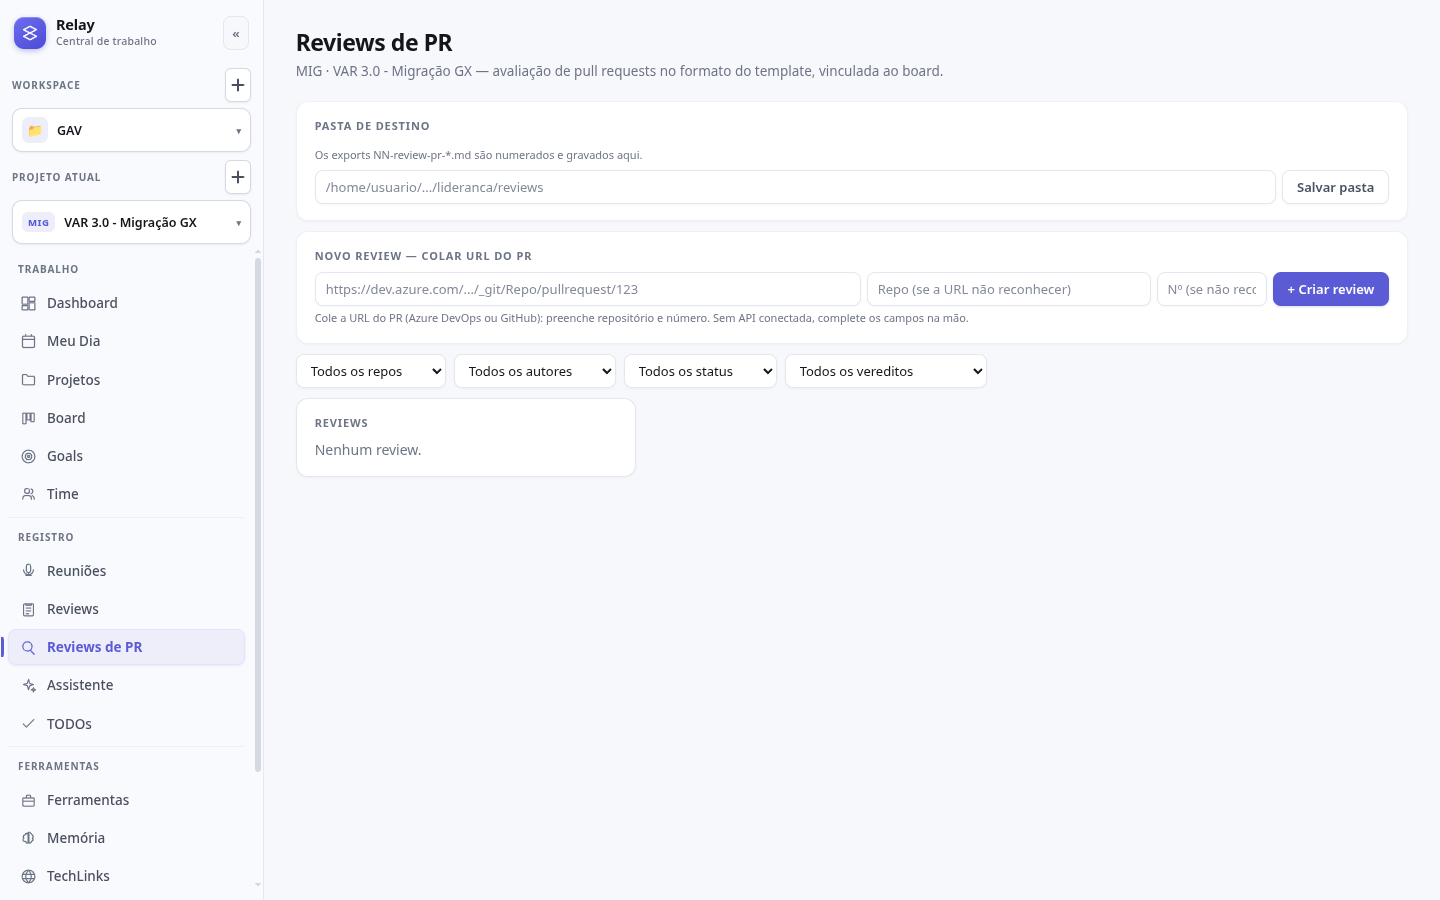
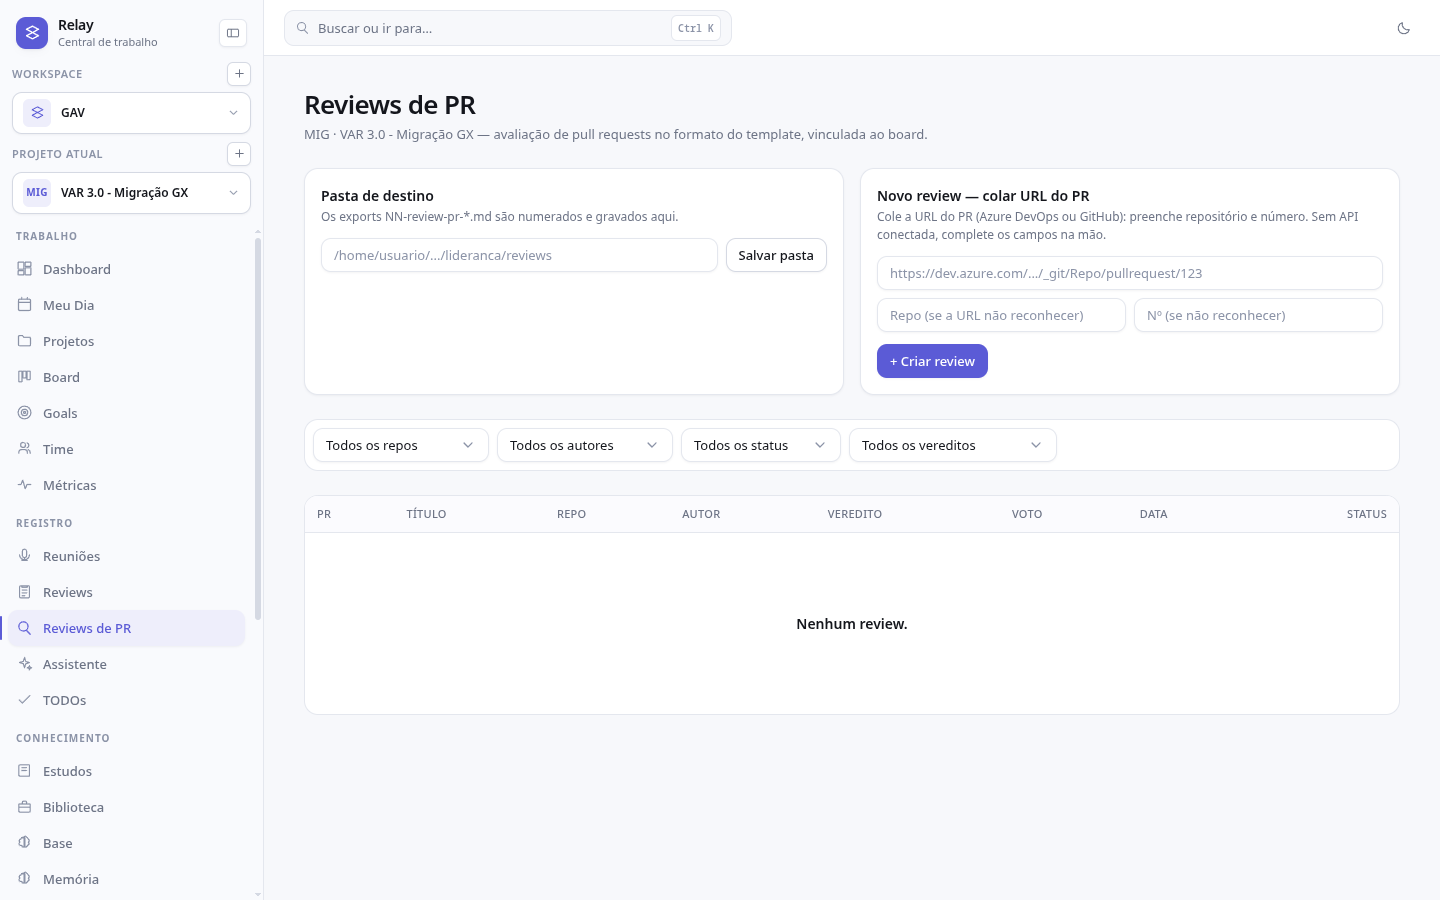
docs(ui): registrar execução do plano, guia de migração e prints oficiais
- plano de reconstrução marcado como executado, com evidências e desvios
- guia de migração das páginas para o design system
- prints oficiais (dashboard, board, metricas, reunioes, reviews-pr) recapturados
- README/README.en apontando para os novos documentos

diff --git a/docs/ui-rebuild-plan.md b/docs/ui-rebuild-plan.md
@@ -1,0 +1,211 @@
+# Plano de ação — reconstrução da UI (Relay web/Electron)
+
+Data: 25/11/2026 · Status: **executado em 25/11/2026** — resultado e desvios na seção 7.
+
+## 1. Diagnóstico (medido, não estimado)
+
+| Sintoma | Número |
+|---|---|
+| Páginas | 26 arquivos · 8.022 linhas |
+| Estilos inline (`style={{…}}`) | **928** (Board sozinho: 291) |
+| Raios de borda distintos | **12** (2, 3, 4, 5, 6, 7, 8, 9, 10, 12, 14, 20 px) |
+| Tamanhos de fonte distintos | **10** (9, 10, 11, 12, 13, 15, 16, 22, 24, 26 px) |
+| Cores hex escritas à mão | **44** |
+| Paddings ad hoc | dezenas (`2px 8px`, `1px 6px`, `8px 10px`, `10px 12px`…) |
+
+**Causa raiz:** cada página decide sozinha dimensão, borda, cor e espaçamento. Não
+existe camada de componentes — o "design system v2" anterior só trocou variáveis
+globais; as 26 páginas continuaram com valores soltos. Enquanto houver `style={{}}`
+com px/cor, a UI volta a parecer antiga a cada página nova.
+
+**Conclusão:** não é refatoração incremental. É reconstruir em 3 camadas —
+fundação (tokens) → primitivos (componentes) → páginas migradas uma a uma,
+proibindo valores soltos por lint.
+
+---
+
+## 2. Decisões de arquitetura (precisam de OK antes de começar)
+
+**D1 — Stack de estilo: Tailwind CSS v4 + Radix Primitives.**
+Dimensão, borda e cor passam a ser *classes* que só existem na escala do token.
+Radix resolve foco/teclado/portal (select, dialog, tooltip, tabs) sem reinventar.
+*Alternativa:* CSS Modules + primitivos próprios (zero dependência nova, porém
+mais código e mais fácil divergir). **Recomendo Tailwind + Radix.**
+
+**D2 — Componentes próprios por cima do Radix** (não usar kit pronto tipo shadcn
+copiado): `Button`, `Input`, `Select`, `Dialog`, `Tabs`, `Table`, `Card`,
+`Badge`, `Tooltip`, `Toast`, `EmptyState`, `PageHeader`, `StatCard`, `Progress`,
+`Field`, `Toolbar`, `DataTable`, `Avatar`, `Skeleton`, `SegmentedControl`.
+
+**D3 — Escalas fechadas** (nada fora delas):
+- espaço: 0,1,2,3,4,6,8,12,16,20,24,32,40,48,64 (px)
+- raio: `sm 6` · `md 10` · `lg 14` · `xl 20` · `full`
+- fonte: `xs 11` · `sm 12` · `base 13` · `md 14` · `lg 16` · `xl 20` · `2xl 26`
+- altura de controle: `sm 28` · `md 34` · `lg 40`
+- borda: 1px `border` · 1px `border-strong` · 2px foco
+- sombra: `xs`, `sm`, `md`, `lg` (4 níveis, nada fora)
+- cores: 1 marca + 4 semânticas × (fundo/texto/borda/hover) — 0 hex em página
+
+**D4 — Layout:** grid de 8px, container com `max-width: 1440px`, gutters
+`24/32/40` por breakpoint, sidebar 264/244/228 (rail 64), topbar fixa 56px.
+
+**D5 — Regra dura:** página não escreve `px`, `#hex`, `borderRadius`, `fontSize`.
+Só usa componente + classe utilitária da escala. Exceções: largura/altura
+dinâmicas (progresso, gráfico) via `style` só com `width/height/transform`.
+
+---
+
+## 3. Fases e tarefas
+
+### F0 — Fundação (2 dias)
+- [ ] **F0.1** Instalar/configurar Tailwind v4 + Radix + `class-variance-authority` (ou variantes próprias) + `clsx`.
+- [ ] **F0.2** `tailwind.config`: cores semânticas (bg, surface, elevated, border, border-strong, text, text-muted, accent, accent-hover, accent-soft, success, warning, danger) nos temas claro/escuro.
+- [ ] **F0.3** Escalas de espaço/raio/fonte/sombra/altura como *tokens únicos* (D3).
+- [ ] **F0.4** `globals.css`: reset, tipografia base, foco visível padrão (`ring-2 ring-accent/40`), scrollbar, `prefers-reduced-motion`.
+- [ ] **F0.5** Remover `styles.css` legado (depois que as páginas migrarem — marcar como deprecado agora).
+- **Aceite:** página de exemplo com 5 controles, 2 cards e tabela renderizando 100% por classes; 0 hex/px no arquivo.
+
+### F1 — Primitivos (4 dias)
+Para cada componente: variantes × tamanhos × estados (hover/active/focus/disabled/loading) + story local (página `/design`).
+- [ ] **F1.1** `Button` (primary, secondary, ghost, danger, link; sm/md/lg; loading, icon-only)
+- [ ] **F1.2** `Input`, `Textarea`, `Field` (label, hint, error, contador), `Checkbox`, `Switch`, `Radio`
+- [ ] **F1.3** `Select` (Radix: teclado, portal, busca) + `Combobox` para listas grandes
+- [ ] **F1.4** `Card`, `Panel`, `SectionTitle`, `Divider`, `EmptyState`, `Skeleton`
+- [ ] **F1.5** `Badge`/`Chip` (neutral, accent, success, warning, danger, outline)
+- [ ] **F1.6** `Tabs` e `SegmentedControl`
+- [ ] **F1.7** `Dialog`/`Sheet`/`ConfirmDialog` (substitui SweetAlert nas ações destrutivas)
+- [ ] **F1.8** `Toast` (sucesso/erro) — substitui `setMsg`/`setErro` espalhados
+- [ ] **F1.9** `Tooltip`, `Avatar`, `Progress`
+- [ ] **F1.10** `DataTable` (header sticky, densidade sm/md, ordenação, seleção, coluna responsiva que colapsa em card no mobile)
+- [ ] **F1.11** `StatCard` (KPI: valor, rótulo, delta/chip, ícone)
+- [ ] **F1.12** `PageHeader` (título, subtítulo, ações, breadcrumb) e `Toolbar` (busca/filtros/ação primária)
+- **Aceite:** `/design` mostra todos os componentes em todos os estados; nada abaixo de 32px de alvo de toque; contraste AA verificado.
+
+### F2 — Shell (2 dias)
+- [ ] **F2.1** `AppShell`: sidebar + topbar + conteúdo com container/gutters por breakpoint.
+- [ ] **F2.2** Sidebar: grupos, rail colapsada (ícones 40px), tooltip na rail, persistência, drawer no mobile com focus-trap.
+- [ ] **F2.3** Topbar: busca global (Cmd/Ctrl+K abre `CommandPalette`), workspace/projeto, ações rápidas, avatar.
+- [ ] **F2.4** `CommandPalette` (busca em páginas, projetos, cards, reuniões).
+- [ ] **F2.5** Estados globais: loading (skeleton), erro (banner do design), vazio (EmptyState com ação).
+- **Aceite:** navegação completa por teclado; shell idêntico em 1440/1024/768/420.
+
+### F3 — Migração por ondas (10–12 dias)
+
+Regra por página: **zero `style={{}}` com px/cor**, só primitivos. Cada onda
+entrega build verde + screenshots 4 larguras + checklist.
+
+**Onda 1 — Núcleo (3 d):** Dashboard, Board (kanban + filtros + card + drawer da tarefa), Métricas.
+- [ ] **F3.1** Dashboard (StatCards, atividade, projetos)
+- [ ] **F3.2** Board: colunas (header sticky, WIP, contagem), card (título/labels/avatar/data/selects compactos), toolbar de filtros, drawer de detalhe
+- [ ] **F3.3** Métricas: KPIs, gráficos com legenda, tabelas por módulo/pessoa
+
+**Onda 2 — Registro (3 d):** Reuniões, Reviews, Reviews de PR.
+- [ ] **F3.4** Reuniões: lista (DataTable), detalhe com tabs, transcrição/analisar, player de áudio
+- [ ] **F3.5** Reviews (semanal) e Reviews de PR: formulários em `Field`, tabelas de fatos/achados com linha editável, preview, histórico
+
+**Onda 3 — Trabalho (3 d):** Meu Dia, TODOs, Time, Goals, Sprint Planning, Projetos.
+- [ ] **F3.6..F3.11** cada página migrada
+
+**Onda 4 — Suporte (2 d):** Estudos, Base (KB), Memória, Biblioteca, Ferramentas, TechLinks, Skills, Guia, Inglês, Tradução, API Tester, Configurações, Labels.
+- [ ] **F3.12..F3.24** cada página migrada
+
+**Onda 5 — Limpeza (1 d):** remover CSS legado, componentes órfãos, `styles.css`, classes mortas.
+
+### F4 — Qualidade e guardrails (2 dias, contínuo)
+- [ ] **F4.1** ESLint: `react/forbid-dom-props` para `style` (allowlist width/height/transform) + regra contra hex em JSX.
+- [ ] **F4.2** Script `npm run ui:audit`: falha se `style={{` > 0 nas páginas, hex solto, raio/fonte fora da escala.
+- [ ] **F4.3** Visual regression: snapshots 1440/1024/768/420 por página (Playwright) no CI local.
+- [ ] **F4.4** A11y: axe nas 6 páginas principais; foco visível; contraste AA; labels em todos os campos.
+- [ ] **F4.5** Checklist de PR: usa primitivo? zero px/cor? estados vazio/erro/loading? teclado ok?
+
+### F5 — Rollout
+- [ ] **F5.1** Migrar em branch `ui/rebuild` (ondas em commits separados), PR por onda.
+- [ ] **F5.2** Build + suíte + screenshots comparativos (antes/depois) por onda.
+- [ ] **F5.3** Publicar prints oficiais (`docs/prints/`) ao fim de cada onda.
+- [ ] **F5.4** Remover dependência do SweetAlert nas páginas migradas (Dialog/Confirm próprios).
+
+---
+
+## 4. Ordem recomendada e esforço
+
+| Fase | Entrega | Dias |
+|---|---|---|
+| F0 | Tokens + Tailwind/Radix | 2 |
+| F1 | 12 famílias de primitivos + `/design` | 4 |
+| F2 | Shell + busca global | 2 |
+| F3 | 26 páginas em 5 ondas | 10–12 |
+| F4 | Lint + auditoria + visual regression | 2 |
+| **Total** | | **20–22 dias-dev** |
+
+**Caminho crítico:** F0 → F1 → F2 → Onda 1. Nada de página antes dos primitivos.
+
+---
+
+## 5. Critérios de aceite (globais)
+
+1. `grep -c "style={{"` nas páginas = **0** (exceto width/height/transform dinâmicos, com comentário).
+2. Nenhum `#hex`, `px`, `borderRadius` ou `fontSize` em `pages/**`.
+3. Todas as páginas nos 4 breakpoints sem overflow horizontal.
+4. Foco visível e navegação por teclado em todo controle; contraste AA.
+5. `/design` é a fonte da verdade visual e está sempre atualizada.
+6. CI local falha se 1–3 forem violados.
+
+## 6. Riscos
+
+| Risco | Mitigação |
+|---|---|
+| Migração longa e "meio termo" (metade nova, metade velha) | Ondas fechadas; página só entra quando migra 100%; feature freeze de UI durante a obra |
+| Tailwind virar "sopa de classes" | Só classes do token; variantes encapsuladas no primitivo; página não estiliza |
+| Regressão de comportamento | Suíte (590 testes) + screenshots por onda + checklist |
+| Tempo maior que o previsto | Onda 1 entrega valor visível em 3 dias; resto pode pausar sem quebrar |
+
+---
+
+## 7. Execução (25/11/2026)
+
+### Entregue
+
+- **Fundação:** Tailwind CSS v4 + Radix + `clsx`/CVA; `src/styles/theme.css` com
+  escala fechada de cor, fonte, raio, sombra e altura de controle; tema claro/escuro.
+- **Primitivos:** 26 componentes em `src/ui` (Button, Card, Badge, EmptyState,
+  Skeleton, Progress, Avatar, Tooltip, Spinner, Field, Input, Textarea, Checkbox,
+  Switch, RadioGroup, Select, SearchInput, PageHeader, Toolbar, StatCard,
+  DataTable, Tabs, SegmentedControl, Dialog, ConfirmDialog, Toast).
+- **Catálogo vivo:** rota `/design` com todos os componentes, variantes e estados.
+- **Shell:** `AppShell` com sidebar (rail persistida, grupos, gaveta mobile),
+  topbar de 56px, `CommandPalette` (⌘/Ctrl+K) e container responsivo.
+- **Páginas:** 27 rotas migradas (todas as 26 originais + `/design`);
+  `TaskDetail` e `ProjectDaily` também migrados.
+- **Limpeza:** `src/styles.css` removido; nenhuma página usa classe legada,
+  `style` com px/cor, hex ou `NNpx`.
+- **Guardrail:** `npm run ui:audit` (falha se página migrada voltar a usar valor
+  solto); `scripts/ui-shot.py` para capturas/checagem de overflow em CDP.
+- **Prints oficiais:** `docs/prints/{dashboard,board,metricas,reunioes,reviews-pr}.png`
+  recapturados em 1440×900.
+
+### Evidências
+
+- `npm run build`: verde.
+- `npm run ui:audit`: `ui:audit ok — nenhuma página usa valores soltos`.
+- `pytest -q`: **590 passed**, 1 falha pré-existente
+  (`test_daily_doc.py::test_round_trip_arquivo_real_do_vault`).
+- `scripts/ui-shot.py`: 24 rotas × 420/768/1024/1440 **sem overflow horizontal**
+  (`scrollWidth == clientWidth`); gaveta mobile e foco preso do diálogo conferidos.
+- Teclado validado em navegador real no `/design`: `Esc` fecha o `Dialog`,
+  setas/`Enter` navegam e selecionam no `Select` (Radix). O envio de teclas via
+  CDP não chega na janela Electron oculta — por isso a validação foi feita no
+  navegador, não no print.
+- Tema escuro conferido no app empacotado; em janela oculta as transições CSS
+  ficam paradas no primeiro frame (artefato do headless, não do app) — validar com
+  `document.getAnimations().forEach(a => a.finish())` no CDP.
+
+### Desvios conscientes do plano
+
+| Item | O que foi feito | Por quê |
+|---|---|---|
+| F4.1 ESLint | `ui:audit` próprio em vez de `eslint-plugin-react` | evita mais uma dependência e já cobre o critério (style/hex/px) |
+| F4.3 Playwright | `scripts/ui-shot.py` via CDP | ambiente sem Playwright/navegador baixado; script checa overflow e gera prints |
+| F4.4 axe | verificação manual de foco/labels/contraste | `axe-core` não está instalado no ambiente |
+| F5.1 branch `ui/rebuild` | commits em `main` | preferência do projeto: sem PR e sem branch intermediária |
+| F5.4 SweetAlert | removido das páginas; permanece em `WorkspaceSelector`, `ProjectSelector` e `ProjectDaily` | são prompts de shell/importação; migração exige novo fluxo de formulário e fica para demanda própria |
+| i18n | rótulos novos caem no fallback PT quando o idioma é EN | catálogo `i18n_catalog.js` não foi alterado nesta obra |

diff --git a/docs/ui-migration-guide.md b/docs/ui-migration-guide.md
@@ -1,0 +1,143 @@
+# Guia de migração das páginas para o design system
+
+Data: 25/11/2026 · Complementa `docs/ui-rebuild-plan.md` (fases F1/F3).
+
+Este guia é o contrato para migrar uma página do CSS legado para os primitivos
+em `local-client/webui/src/ui`. O objetivo é que a página **não escreva mais
+dimensão, cor nem borda** — só componha primitivos e classes do tema.
+
+## Regra de ouro
+
+```jsx
+// errado
+<div style={{ padding: 12, borderRadius: 8, background: '#fff' }}>
+  <button style={{ height: 32, fontSize: 12 }}>Salvar</button>
+</div>
+
+// certo
+<Card>
+  <Button size="sm">Salvar</Button>
+</Card>
+```
+
+Proibido em `pages/**`:
+
+- `style={{ … }}` com `px`, `#hex`, `borderRadius`, `fontSize`, `color`, `background`
+  (só `width`/`height`/`transform`/`left`/`top` dinâmicos, ex.: barra de progresso).
+- `#rrggbb` / `#rgb` solto.
+- `NNpx` em qualquer propriedade.
+- Classes do CSS legado (`card`, `row`, `muted`, `btn`, `ghost`, `danger`, `chip`,
+  `preview`, `sectionLabel`, `hint`, `mono`, `pill`, `kpi`, `stat`…). Migrou, sumiu.
+
+Exceções: gráficos SVG podem usar `width`/`height`/`viewBox` e `stroke`/`fill`
+com `currentColor` ou `var(--color-…)`; nunca hex.
+
+## Casca
+
+A página é renderizada dentro de `AppShell` (sidebar + topbar + `.app-container`).
+Portanto:
+
+- **não** adicione padding/max-width/margem externa na raiz;
+- comece por `<PageHeader … />` (título/descrição/ações);
+- use `space-y-6` (ou `gap-6`) entre blocos;
+- grids responsivos: `grid gap-3 sm:grid-cols-2 xl:grid-cols-4`, tabelas com
+  `DataTable` (já tem scroll horizontal e esconde colunas no mobile).
+
+## Primitivos (import único)
+
+```jsx
+import {
+  Avatar, Badge, Button, Card, CardHeader, Chip, ConfirmDialog, DataTable,
+  Dialog, Divider, EmptyState, Field, Input, PageHeader, Progress, RadioGroup,
+  SearchInput, SectionTitle, SegmentedControl, Select, Skeleton, Spinner,
+  StatCard, Switch, Tabs, Textarea, Toolbar, Tooltip, useToast,
+} from '../ui'
+import Icon from '../components/Icon.jsx'
+```
+
+### Ações e conteúdo
+
+- `Button` — `variant`: `primary|secondary|ghost|danger|link`; `size`: `sm|md|lg`;
+  `loading`, `disabled`, `iconOnly`, `as`. Props repassadas (`onClick`, `title`, `type`).
+- `Card` — `padding: sm|md|lg|none`, `variant: default|flat`; `CardHeader`
+  (`title`, `description`, `action`); `SectionTitle`; `Divider`.
+- `Badge` — `variant: neutral|accent|success|warning|danger|outline`, `size: sm|md`;
+  `Chip` (`dot` opcional).
+- `EmptyState` — `icon`, `title`, `description`, `action`.
+- `Skeleton` — `w`, `h`, `rounded` (classes); `Spinner` — `size: xs|sm|md|lg`.
+- `Progress` — `value`, `max`, `tone: accent|success|warning|danger`, `size`.
+- `Avatar` — `name`, `src`, `size: sm|md|lg`.
+- `Tooltip` — `content`, `side`, `align`; envolve o gatilho.
+
+### Layout e dados
+
+- `PageHeader` — `title`, `description`, `actions`, `breadcrumb`.
+- `Toolbar` — `children` (esquerda), `actions` (direita); quebra no mobile.
+- `StatCard` — `label`, `value`, `icon` (nó React, ex.: `<Icon …/>`), `hint`,
+  `tone: accent|success|warning|danger`, `delta: { value, tone }`.
+- `DataTable` — `columns: [{ key, header, render(row), align, sortable,
+  hideOnMobile, width }]`, `rows`, `rowKey(row)`, `onRowClick`, `empty`,
+  `loading`, `dense`, `sort`, `onSortChange`. Já tem borda, header sticky e
+  scroll; **não** envolva em `Card` com padding.
+- `Tabs` — `tabs: [{ value, label, icon?, badge? }]`, `value`, `onValueChange`,
+  `children` (ou `tab.content`).
+- `SegmentedControl` — `options: [{ value, label }]`, `value`, `onChange`.
+- `Dialog` — `open`, `onOpenChange`, `title`, `description`, `footer`, `size`.
+- `ConfirmDialog` — `open`, `onOpenChange`, `title`, `description`,
+  `confirmLabel`, `cancelLabel`, `tone: default|danger`, `onConfirm`, `loading`.
+- `useToast()` — `toast({ title, description, tone })`. Requer `ToastProvider`
+  (já montado em `App.jsx`).
+
+### Formulário
+
+- `Field` — `label`, `hint`, `error`, `required`, `counter`, `htmlFor`.
+  Envolve o controle e liga label/erro por aria.
+- `Input` — `invalid`, `leadingIcon`, `trailing`, `size`; `Textarea`.
+- `Select` — `value`, `onValueChange`, `options: [{ value, label, disabled? }]`,
+  `placeholder`, `size`, `invalid`, `disabled`, `ariaLabel`. Radix: teclado/portal.
+- `SearchInput` — `value`, `onChange`, `placeholder` (recebe valor direto, não evento).
+- `Checkbox` — `label`, `description`, `checked`, `onCheckedChange`.
+- `Switch` — `label`, `checked`, `onCheckedChange`.
+- `RadioGroup` — `options: [{ value, label, description? }]`, `value`, `onValueChange`.
+
+## Escala permitida de classes
+
+- espaço: `0 1 2 3 4 6 8 12 16 20 24 32 40 48 64` (Tailwind: p-1..p-16);
+- raio: `rounded-sm|md|lg|xl|full`;
+- fonte: `text-xs|sm|base|md|lg|xl|2xl|3xl`;
+- altura de controle: `h-control-sm|control|control-lg`;
+- sombra: `shadow-xs|sm|md|lg`;
+- cor: `bg-bg|surface|surface-2|elevated|accent|accent-soft|accent-soft-2|success-soft|warning-soft|danger-soft`,
+  `text-fg|fg-muted|fg-subtle|accent|accent-contrast|success|warning|danger`,
+  `border-border|border-strong|accent|success|warning|danger`.
+- Nada de `text-[13px]`, `p-[10px]`, `bg-[#…]`, `rounded-[6px]`.
+
+## O que preservar (obrigatório)
+
+1. **Comportamento**: todos os `useState`, `useEffect`, chamadas de API, handlers,
+   polling, drag-and-drop, atalhos e navegação continuam idênticos.
+2. **Textos e i18n**: mantenha `t('…')` e as strings existentes; não “melhore” copy.
+3. **Contratos da API**: não altere endpoints, parâmetros nem formato de payload.
+4. **Estados**: loading (Skeleton/Spinner), vazio (EmptyState), erro (texto
+   `text-danger` ou toast) e sucesso continuam perceptíveis.
+5. **Acessibilidade**: todo botão só de ícone tem `aria-label`; campos têm label.
+
+## Validação antes de reportar
+
+```bash
+cd local-client/webui
+npx esbuild src/pages/<Pagina>.jsx --loader:.jsx=jsx --outfile=/dev/null
+UI_MIGRATED=<Pagina1>,<Pagina2> node scripts/ui-audit.mjs
+```
+
+O `ui:audit` deve sair **0 bloqueante(s)** para as páginas atribuídas. Avisos em
+outras páginas não são seus. **Não** rode `npm run build`, `npm install` nem git —
+o orquestrador fecha a onda.
+
+## Proibições
+
+- Não edite `src/ui/**`, `src/shell/**`, `src/App.jsx`, `src/styles.css`,
+  `src/styles/theme.css`, `src/api.js`, `src/i18n*`, `package.json`.
+- Não crie componentes novos em `src/ui/`; se faltar algo, resolva com o que
+  existe e reporte a lacuna.
+- Não remova funcionalidade para “ficar mais bonito”.

diff --git a/docs/prints/README.md b/docs/prints/README.md
@@ -57,7 +57,20 @@ cd local-client && ./run-web.sh   # http://127.0.0.1:9777/
 
 Capturados do app Electron empacotado (1440×900, tema claro, projeto MIG) e já
 usados no README: `dashboard.png`, `board.png`, `metricas.png`,
-`reviews-pr.png`, `reunioes.png`. Recapturar quando a UI mudar de forma
-relevante. Como recapturar sem monitor ligado: subir o app com
-`RELAY_ELECTRON_ARGS="--remote-debugging-port=9222" ./electron/relay-electron.sh`
-e usar CDP (`Page.captureScreenshot` após navegar para a rota).
+`reviews-pr.png`, `reunioes.png`.
+
+**Recapturados após a reconstrução da UI** (design system v2: Tailwind v4 +
+primitivos em `src/ui`, shell novo e `/design`). Os prints anteriores eram do
+design antigo.
+
+Como recapturar sem monitor ligado:
+
+```bash
+RELAY_ELECTRON_ARGS="--remote-debugging-port=9222" ./electron/relay-electron.sh
+python3 local-client/webui/scripts/ui-shot.py /dashboard,/board,/metricas,/reunioes,/reviews-pr /tmp/ui-prints 1440 6
+cp /tmp/ui-prints/1440/*.png docs/prints/
+```
+
+O script usa CDP (`Page.captureScreenshot`) após navegar para cada rota. Em
+janela oculta, finalize as transições CSS com
+`document.getAnimations().forEach(a => a.finish())` antes do print.

diff --git a/README.md b/README.md
@@ -95,6 +95,8 @@ A GUI Qt está congelada após a paridade por view (E2) e sai depois de um relea
 - [E2 — Matriz de paridade GUI PySide → HTTP](docs/e2-parity-matrix.md)
 - [E3 — Empacotamento e release](docs/e3-packaging.md)
 - [electron/README.md](electron/README.md) — variáveis, atalhos, checklist do shell
+- [UI — plano de reconstrução e design system](docs/ui-rebuild-plan.md)
+- [UI — guia de migração das páginas](docs/ui-migration-guide.md)
 - [docs/prints/](docs/prints/) — capturas de tela atuais (Electron)
 
 ## Instalação com agente de IA

diff --git a/README.en.md b/README.en.md
@@ -95,7 +95,8 @@ The Qt GUI is frozen after per-view parity (E2) and goes away after one release 
 - [E2 — PySide GUI → HTTP parity matrix](docs/e2-parity-matrix.md)
 - [E3 — Packaging and release](docs/e3-packaging.md)
 - [electron/README.md](electron/README.md) — variables, shortcuts, shell checklist
-- [docs/prints/README.md](docs/prints/README.md) — pending screenshots
+- [UI — rebuild plan and design system](docs/ui-rebuild-plan.md)
+- [docs/prints/README.md](docs/prints/README.md) — current Electron screenshots
 
 ## Installation with an AI agent
 
